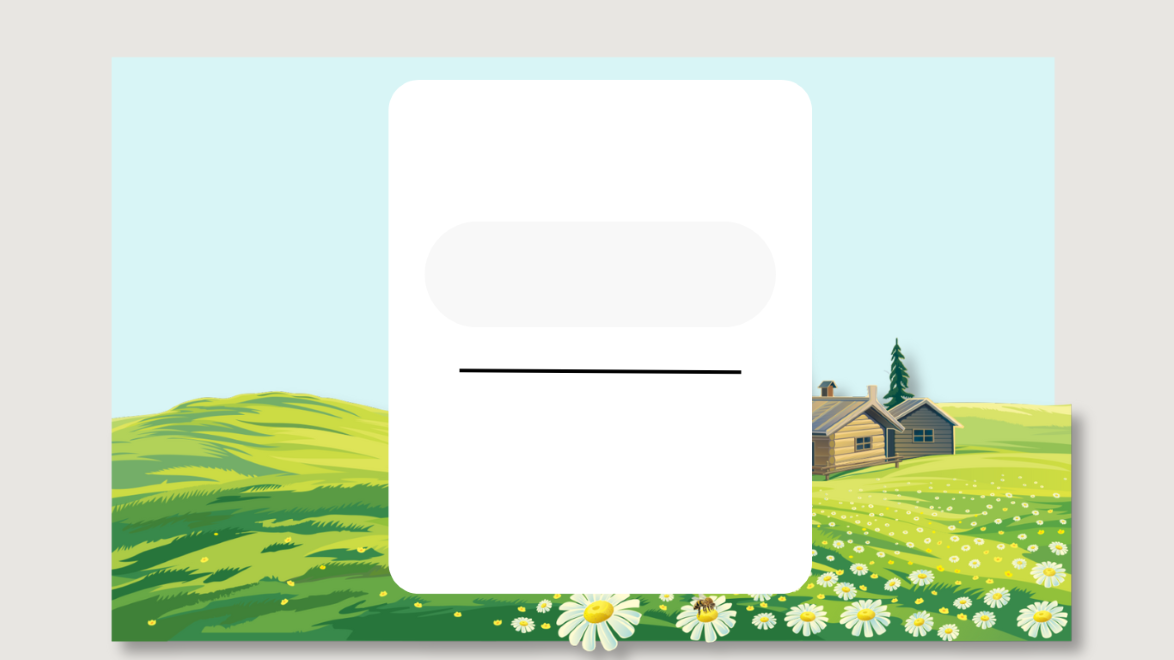
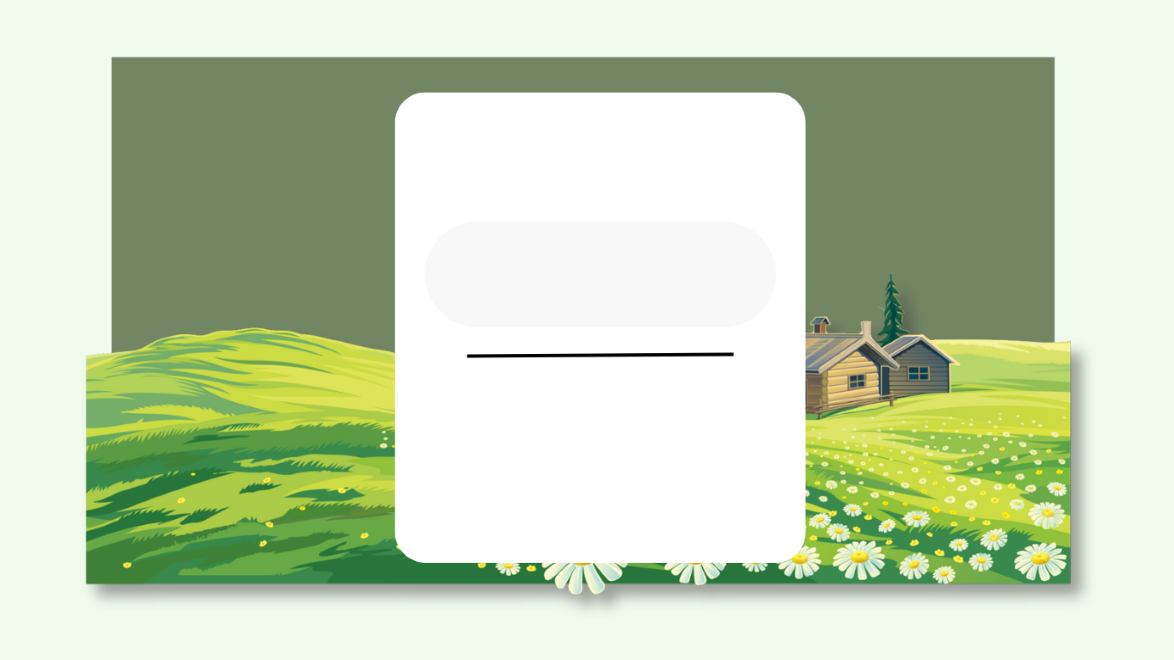
Updates: - Changed color scheme of user verification page - Added functionality to generate one time password code - Added verification code email functionality, TOTP now sends to email of user on file For Future: - Have code from user verification GUI and all of its functionality handled on login p

diff --git a/login_page.py b/login_page.py
@@ -3,8 +3,27 @@ from tkinter import messagebox
 import pymysql
 import time
 import pyotp
+import smtplib
+from email.message import EmailMessage
 
 #Functionality
+def email_msg(subject, body, address):
+    message = EmailMessage()
+    message.set_content(body)
+    message['subject']=subject
+    message['to']=address
+
+    user = 'pylogin.system@gmail.com'
+    message['from'] = user
+    password = 'cyez msqk dzco pdnf'
+
+    server= smtplib.SMTP('smtp.gmail.com', 587)
+    server.starttls()
+    server.login(user, password)
+    server.send_message(message)
+
+    server.quit()
+
 
 def enter_user(event):
     if userEntry.get()=='enter username':
@@ -44,10 +63,51 @@ def forgot_pw():
 
 
 def user_verification():
-    messagebox.showinfo('User Verification', 'A Verification Code has been sent to your email. Enter the code'
-                                             'to access your account.')
+    # Generate code to send to user
+    # Generate Verification Code
+    key = pyotp.random_base32()
+    totp = pyotp.TOTP(key)
+    print(totp.now())
+    verify_code = totp.now()  # Makes key based on current time, regenerates every 30 secs
+
+    # Verify code
+    #input_code = input('Enter 2FA Code:')
+    #print(totp.verify(input_code))
+
+    # Check database for email matching username and send verification code
+    # Connect to database with userdata
+    try:
+        mydata = pymysql.connect(host='localhost', user='root', password='Classynotsassy1!')
+        mycursor = mydata.cursor()
+    except:
+        messagebox.showerror('Error', 'Database Connection Issue. Please Try Again')
+        return
+
+    query = 'use userdata'
+    mycursor.execute(query)
+
+    # Find email inside the database
+    query = 'select email from data where username=%s'
+    mycursor.execute(query, userEntry.get())
+
+    userTaken = mycursor.fetchone()
+    userEmail = ''
+    for r in userTaken:
+        userEmail += r
+    print(userEmail)
+
+    # send email to user
+    email_msg('Login Project Verification Code',
+              'Login Registration Verification Code\n'
+              'Below is the verification code. Please insert the code as '
+              'directed on the Login Project verification page.\n' 
+              'This code will expire in 30 seconds:\n' + verify_code,
+              userEmail)
+
+    mycursor.close()
+    mydata.close()
     login_root.destroy()
-    import user_verification
+    #import user_verification
 
 
 def login_user():

diff --git a/user_verification.py b/user_verification.py
@@ -1,9 +1,35 @@
 from tkinter import *
-from tkinter import messagebox
+from tkinter import messagebox #Use all tkinter modules for GUI
 from PIL import ImageTk #Use to upload jpg files in place of png files
 import pymysql #Use to connect mySQL database to Python
+import pyotp #Use to generate random verification code
+import time #Use to help generate time based 30 sec code
+
 
 # Functionality
+
+def verify_user():
+    # Generate Verification Code
+    key = pyotp.random_base32()
+    totp = pyotp.TOTP(key)
+    print(totp.now())
+    verify_code = totp.now() #Makes key based on current time, regenerates every 30 secs
+
+    # Verify code
+    input_code = input('Enter 2FA Code:')
+    print(totp.verify(input_code))
+
+    # Send verification code to user
+    # Connect to database
+    mydata=pymysql.connect(host='localhost',user='root',password='Classynotsassy1!')
+    mycursor=mydata.cursor()
+
+    # Check if fields are empty
+    #if codeEntry.get()=='':
+        #messagebox.showerror('Error', 'All Fields Are Required')
+    #else:
+        # Connect to database
+
 
 
 root=Tk()
@@ -37,16 +63,9 @@ resend_code = Button(root, text='RESEND CODE', bd=0, bg='#738664', activebackgro
                      height=1)
 resend_code.place(x=482,y=500)
 
-# Generate key to send to user via the given email corresponding to their account in the database
-# Generate key to send to user, used as a one-time password
-#key = pyotp.random_base32()
-#print(key)
 
-# Time based key will generate a new random key every 30 secs, display message that
-# countdowns from 30 secs after login button was pressed
-#totp = pyotp.TOTP(key)
-
-#print(totp.now())
+messagebox.showinfo('User Verification', 'A Verification Code has been sent to your email.\n'
+                                         'Enter the code within 30 seconds to access your account')
 
 
 root.mainloop()
